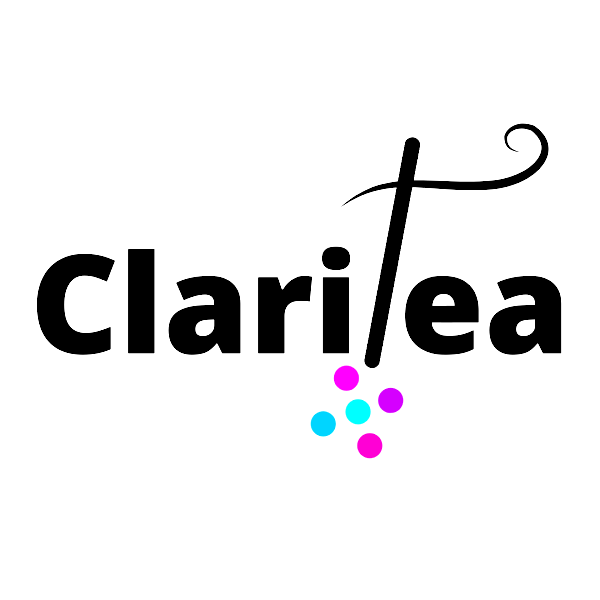
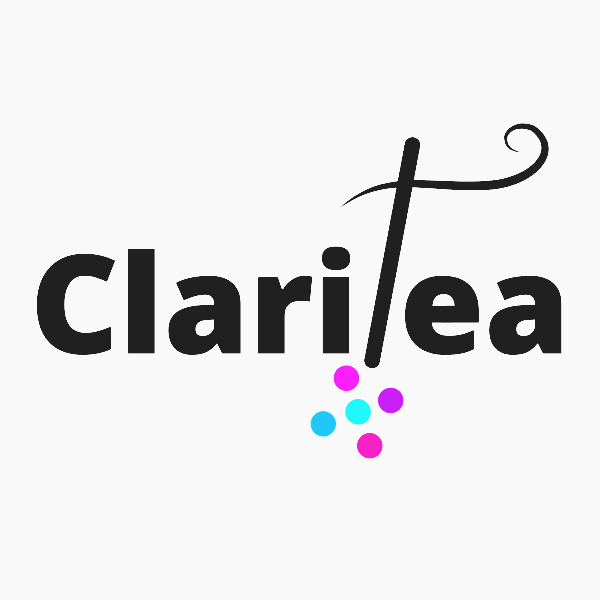
working on styling

Changed region(s): [[0.06, 0.21, 0.96, 0.78], [0.84, 0.21, 0.93, 0.27]]

diff --git a/src/components/SideBar/SideBar.jsx b/src/components/SideBar/SideBar.jsx
@@ -17,9 +17,10 @@ const SideBarStyle = styled.div`
 
 function SideBar() {
     return (
-        <SideBarStyle style={{ backgroundColor: '#3399FF'}}>
-            <Link to="/connect" style={{ textDecoration: 'none', color: 'black'  }}>
+        <SideBarStyle style={{ backgroundColor: '#3399FF' }}>
+            <Link to="/connect" style={{ textDecoration: 'none', color: 'black' }}>
                 <NavButton
+                    style={{ backgroundColor: '#3399FF', color: 'white', fontFamily: 'Sans-Serif' }}
                     key='SideButton0'
                     className='Button'
                     view='Connect'
@@ -27,7 +28,7 @@ function SideBar() {
             </Link>
             <Link to="/schema" style={{ textDecoration: 'none', color: 'black' }}>
                 <NavButton
-                    style={{ backgroundColor: '#3399FF' , color: 'white', fontFamily:'Sans-Serif'}}
+                    style={{ backgroundColor: '#3399FF', color: 'white', fontFamily: 'Sans-Serif' }}
                     key='SideButton1'
                     className='Button'
                     view='Data Modeling'
@@ -36,16 +37,16 @@ function SideBar() {
             <Link to="/tree" style={{ textDecoration: 'none', color: 'black' }}>
                 <NavButton
 
-                style={{ backgroundColor: '#3399FF' , color: 'white', fontFamily:'Sans-Serif', hover: 'white'}}
+                    style={{ backgroundColor: '#3399FF', color: 'white', fontFamily: 'Sans-Serif', hover: 'white' }}
 
                     key='SideButton2'
                     className='Button'
                     view='Visualize'
                 />
             </Link>
-            <Link to="/repTree" style={{ textDecoration: 'none', color: 'black'}}>
+            <Link to="/repTree" style={{ textDecoration: 'none', color: 'black' }}>
                 <NavButton
-                    style={{ backgroundColor: '#3399FF', color: 'white', fontFamily:'Sans-Serif'}}
+                    style={{ backgroundColor: '#3399FF', color: 'white', fontFamily: 'Sans-Serif' }}
                     key='SideButton3'
                     className='Button'
                     view='Replication'

diff --git a/src/components/SideBar/ConnectForm.jsx b/src/components/SideBar/ConnectForm.jsx
@@ -37,14 +37,14 @@ function ConnectForm() {
 
   return (
 
-    <Grid container spacing={1}>
+    <Grid container spacing={0} >
       <Grid item xs={12}>
         <Header />
       </Grid>
-      <Grid item xs={2}>
+      <Grid item xs={0}>
         <SideBar />
       </Grid>
-      <Grid item xs={10}>
+      <Grid item xs={10} style={{ backgroundColor: '#F8F8F8' }}>
         <center>
           <img src={logo} width="200"></img>
         </center>
@@ -70,8 +70,8 @@ function ConnectForm() {
           </form>
         </center>
         <div>{error}</div>
-      </Grid>
-    </Grid>
+      </Grid >
+    </Grid >
 
   );
 };
